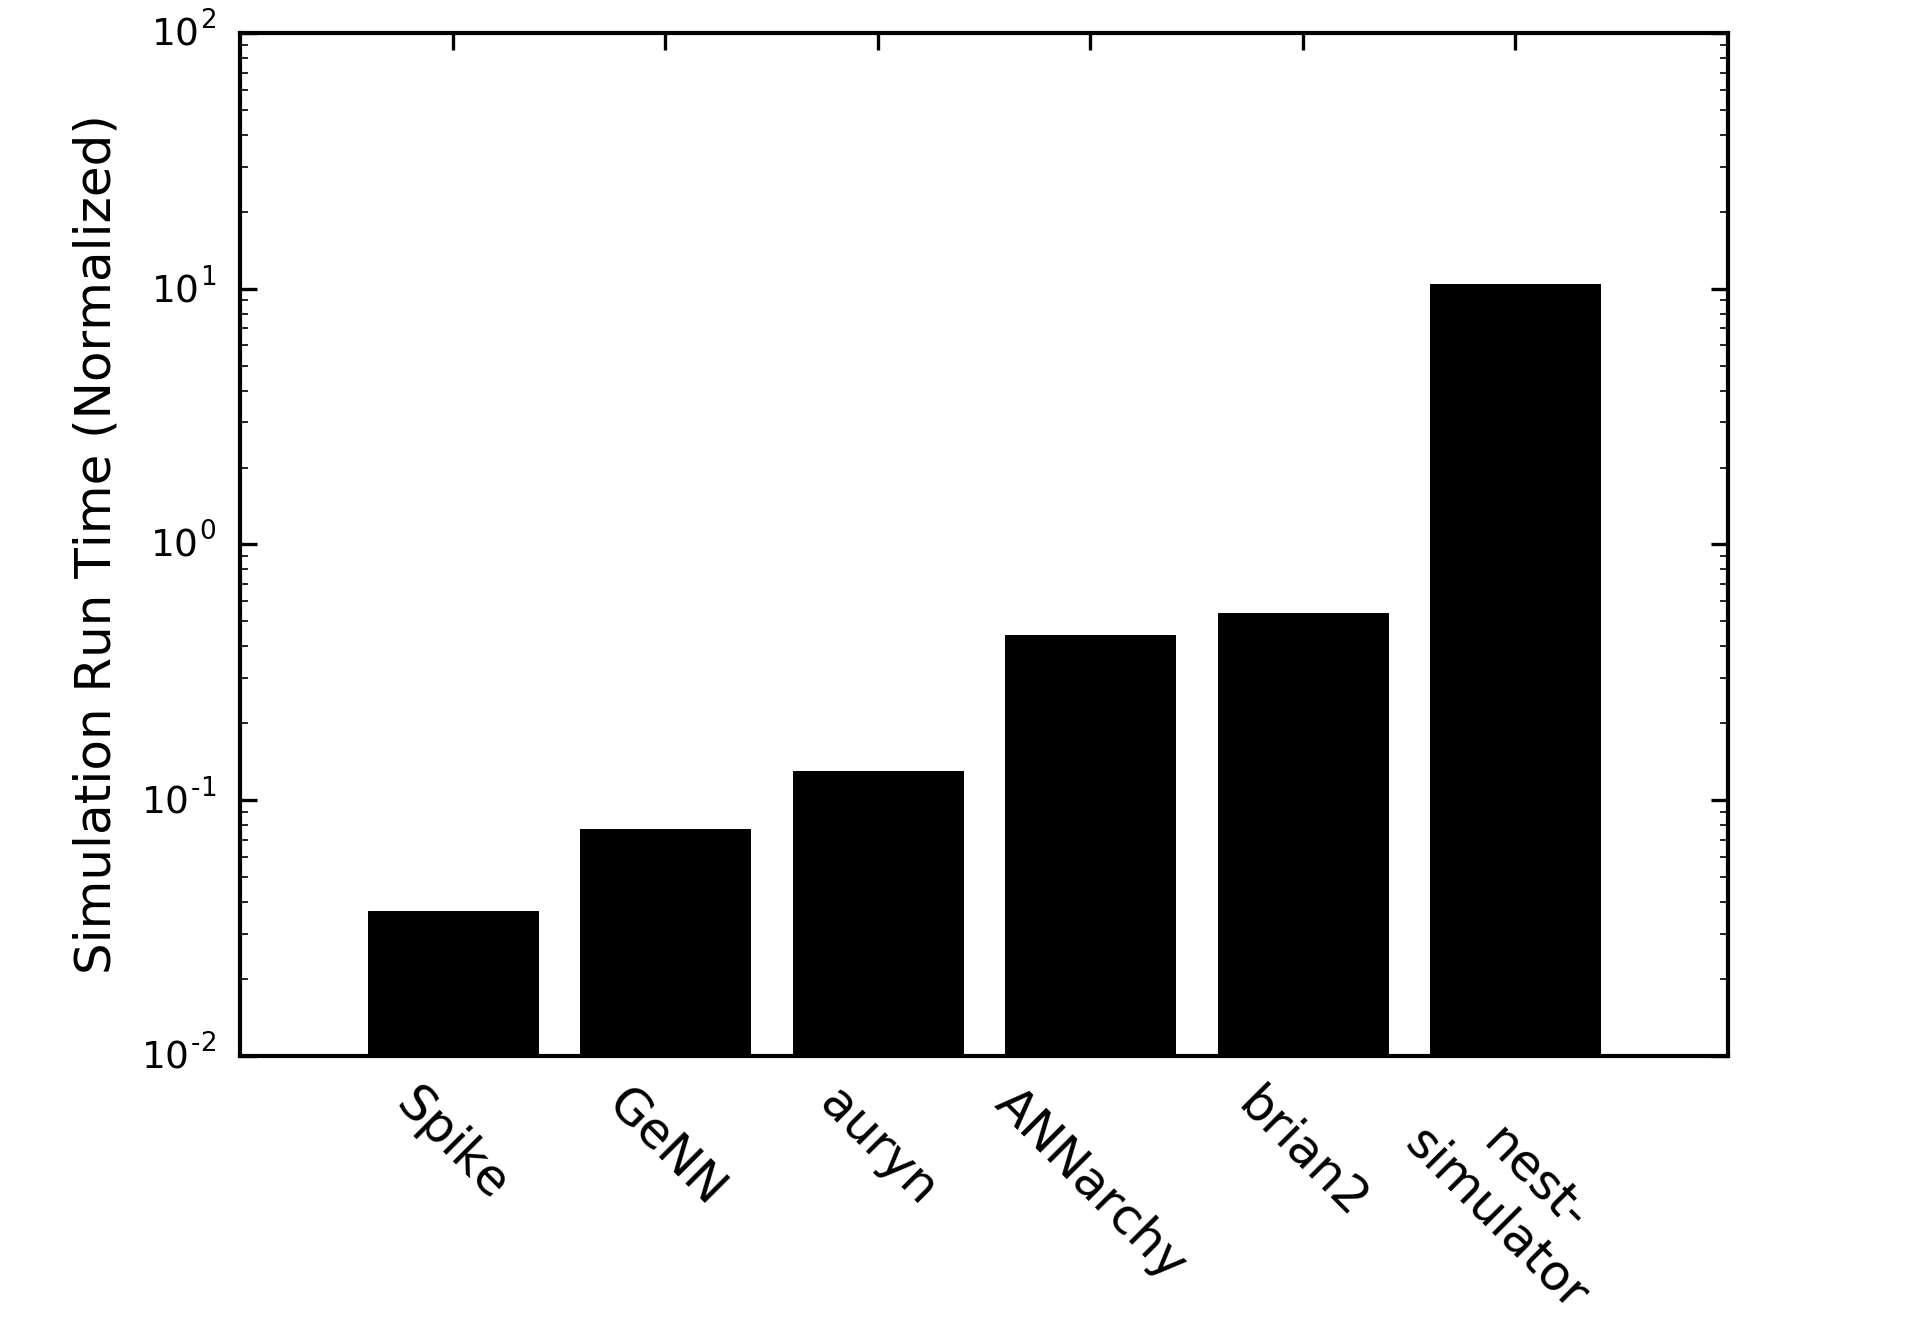
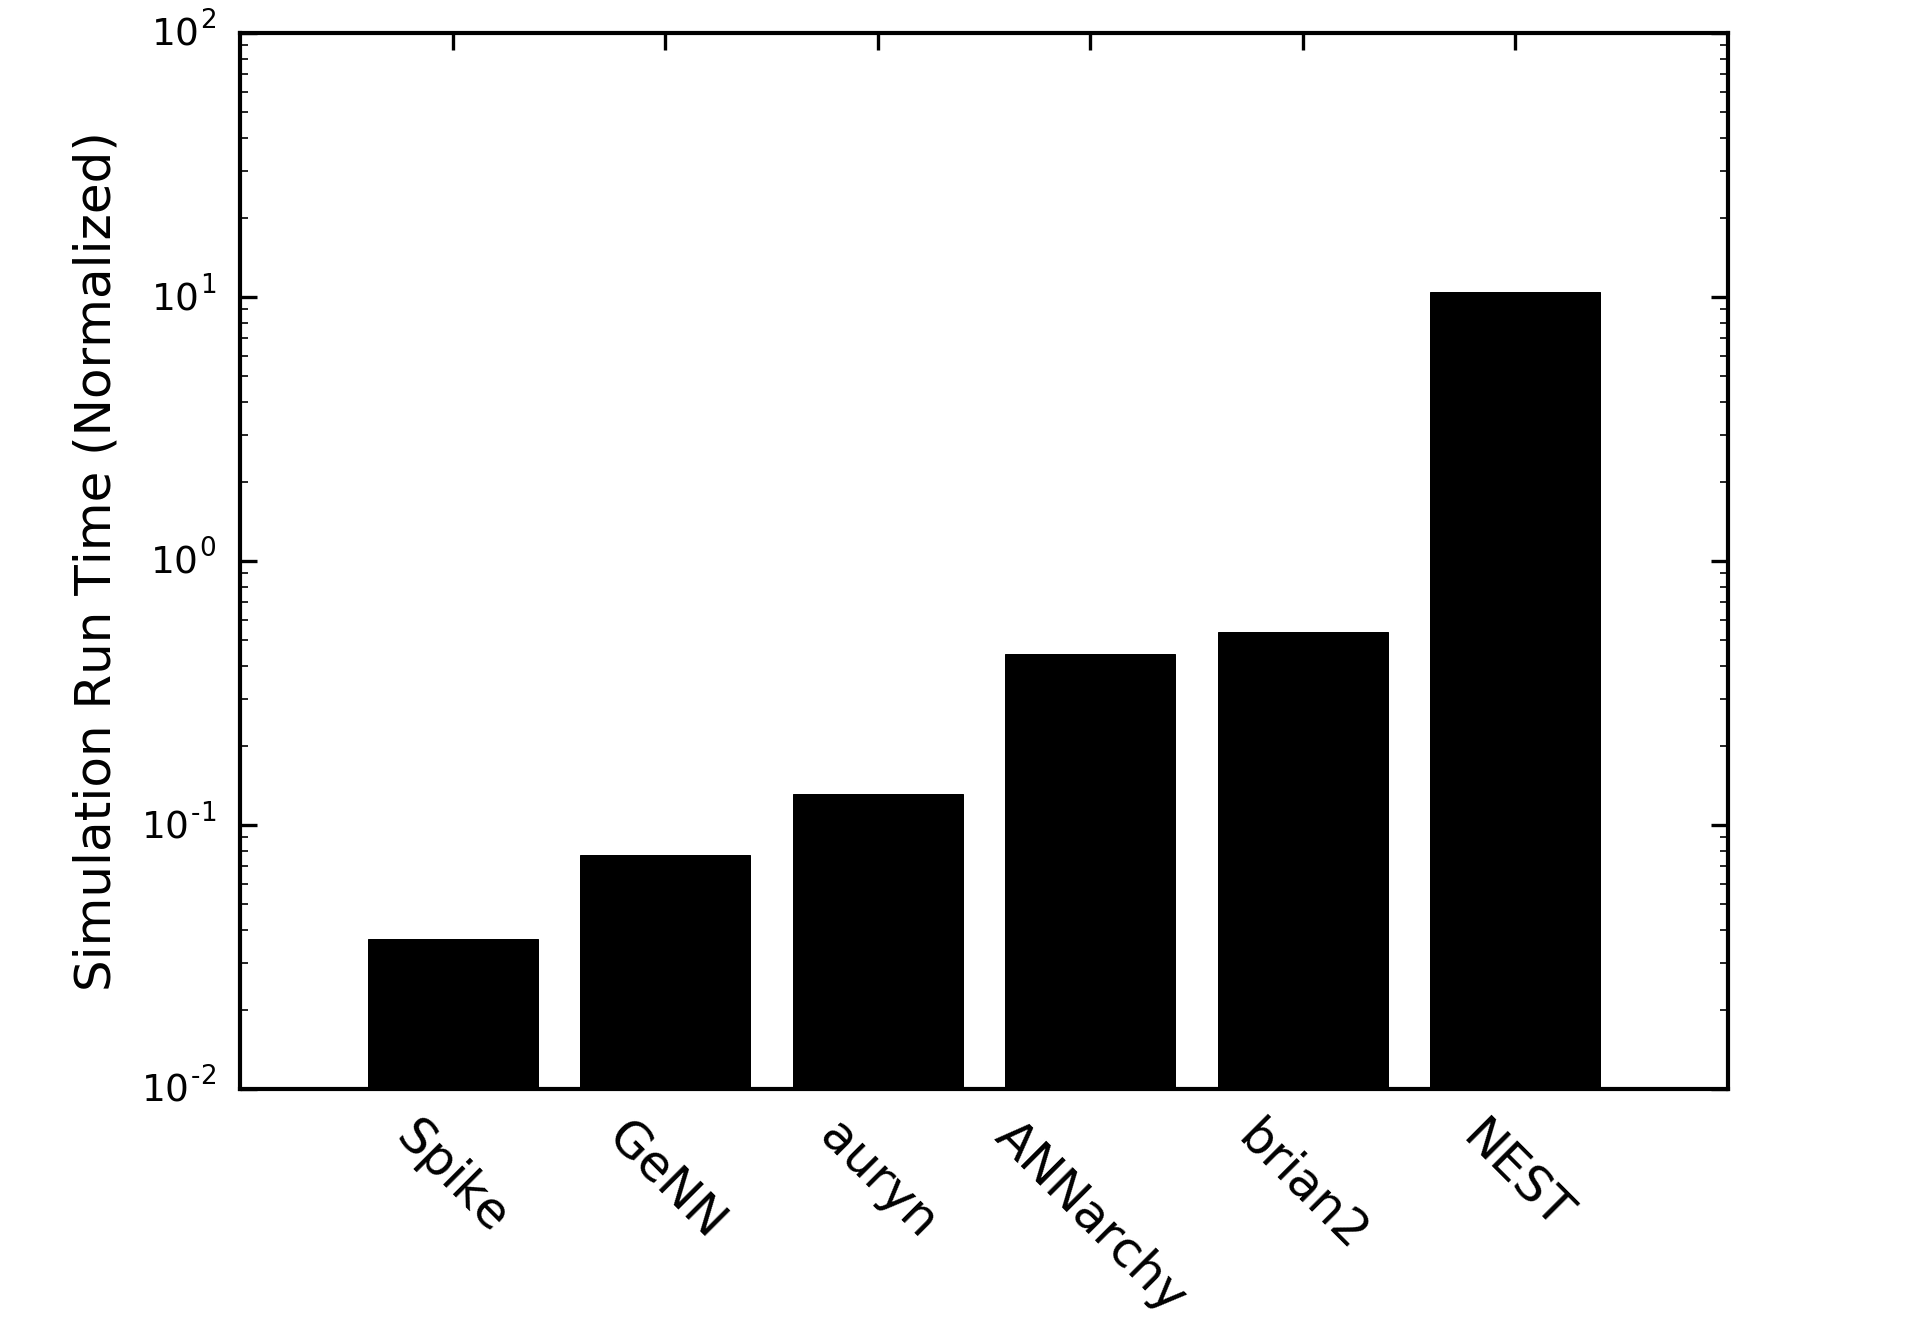
Updating plots with NEST

diff --git a/Benchmarks/VogelsAbbott/_results/plotting.py b/Benchmarks/VogelsAbbott/_results/plotting.py
@@ -8,7 +8,7 @@ simulators = [
         "auryn",
         "ANNarchy",
         "brian2",
-        "nest-simulator",
+        "NEST",
         ]
 
 single_timestep_delay_results = []
@@ -42,17 +42,9 @@ ax.yaxis.set_tick_params(labelsize=10)
 ax.set_ylabel("Simulation Run Time (Normalized)")
 #ax.set_ylim([10.0**-2, 10.0**2])
 ax.set_yscale('log')
-fig.savefig('single_delay_comparison.png')
+fig.subplots_adjust(bottom=0.175)
+fig.savefig('single_delay_comparison.png', dpi=300)
 #plt.show()
-
-simulators = [
-        "Spike",
-        "GeNN",
-        "auryn",
-        "ANNarchy",
-        "brian2",
-        "nest-\nsimulator",
-        ]
 
 fig, ax = plt.subplots()
 #ax.set_title("Comparing Simulators with the Vogels-Abbott Benchmark", size=12)
@@ -67,6 +59,6 @@ ax.yaxis.set_tick_params(labelsize=9)
 ax.set_ylabel("Simulation Run Time (Normalized)", size=12)
 #ax.set_ylim([10.0**-2, 10.0**2])
 ax.set_yscale('log')
-fig.subplots_adjust(bottom=0.2, top=0.975)
+fig.subplots_adjust(bottom=0.175, top=0.975)
 fig.savefig('eight_delay_comparison.png', dpi=300)
 #plt.show()
